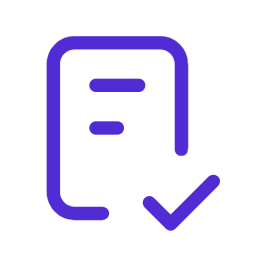
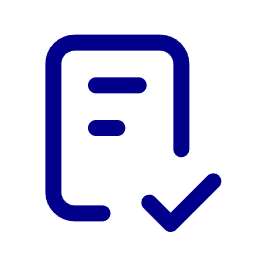
Minor adjustments

diff --git a/Pages/Home.razor.css b/Pages/Home.razor.css
@@ -40,7 +40,7 @@
     border: none;
     background-color: none;
     cursor: pointer;
-    font-size: 0.75rem;
+    font-size: 0.8rem;
 }
 
 .edit-btn {
@@ -48,7 +48,7 @@
 }
 
 .delete-btn {
-    color: red;
+    color: hotpink;
 }
 
 .no-trainings {

diff --git a/Fragments/DateSelector.razor.css b/Fragments/DateSelector.razor.css
@@ -35,7 +35,7 @@
 
 .date-picker {
     height: 40px;
-    width: 95px;
+    width: 110px;
     border: 1px solid var(--color-primary);
     background-color: var(--color-primary);
     border-top-right-radius: 20px;

diff --git a/Fragments/FloatingActionButton.razor.css b/Fragments/FloatingActionButton.razor.css
@@ -1,6 +1,6 @@
 .fab-btn {
     position: fixed;
-    left: calc(50% - 25px);
+    right: 20px;
     bottom: 20px;
     background-color: var(--color-primary);
     color: white;

diff --git a/wwwroot/css/app.css b/wwwroot/css/app.css
@@ -1,6 +1,6 @@
 :root {
     --topbar-height: 40px;
-    --color-primary: #512BD4;
+    --color-primary: #00008B;
 }
 
 html, body, * {

diff --git a/README.md b/README.md
@@ -1,0 +1,9 @@
+## Daily Training Planner
+A Blazor WASM PWA written in .Net 10.  
+A lightweight client application, can be installed on your pc/mobile device via browser from [Azure](https://ambitious-island-023363703.3.azurestaticapps.net/).
+
+#### Functions
+- You can pick up daily training checklists for the next 2 weeks
+- Your checklist will be stored in your browser's local storage
+
+![HomePage](./homepage.png)
